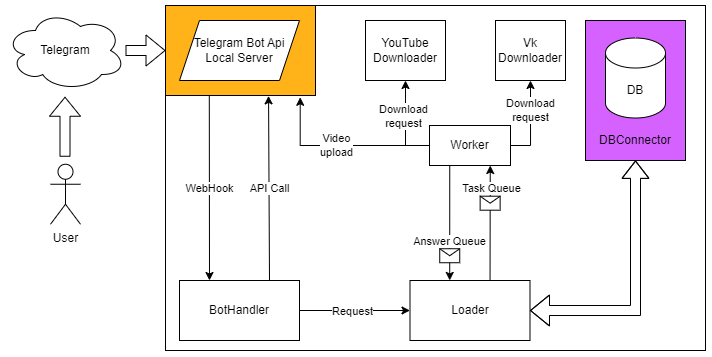
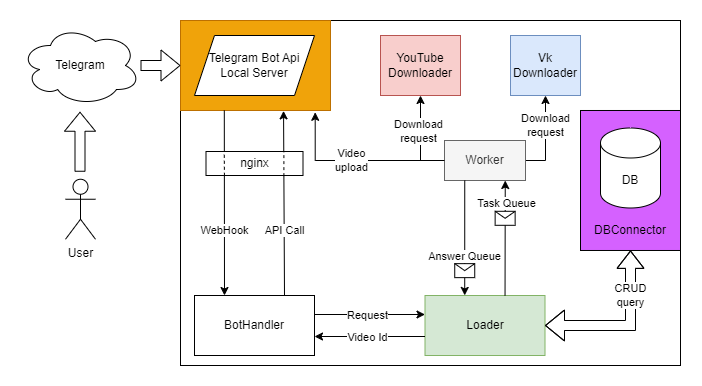
Update readme.md

diff --git a/readme.md b/readme.md
@@ -1,4 +1,25 @@
-## Запуск
+## Содержание
+
+- [Содержание](#содержание)
+- [Описание проекта](#описание-проекта)
+- [Запуск приложения](#запуск-приложения)
+    - [Запуск на локальной машине](#Запуск-на-локальной-машине)
+    - [Запуск на сервере](#Запуск-на-сервере)
+    - [Генерация автодокументации](#генерация-автодокументации)
+- [Архитектура](#архитектура)
+    - [Архитектура базы данных](#архитектура-базы-данных)
+    - [Архитектура приложения](#архитектура-приложения)
+    - [Паттерны проектирования](#паттерны-проектирования)
+
+# Описание проекта
+
+Наш проект представляет собой Telegram бота для скачивания видеозаписей с популярных видео хостингов. В его возможно
+входит
+
+- Загрузка видеозаписей по ссылке с платформы YouTube и VK Video
+- Возможность подписываться на обновления плейлистов и автоматически получать добавленные видео
+
+## Запуск приложения
 
 Для запуска необходимо заполнить файл [.env](.env.sample).
 
@@ -9,7 +30,6 @@
 > [!TIP]
 > Рекомендуется заполнить все переменные окружения вида `*HOST` названием соответствующего сервиса
 > в [docker-compose.yml](docker-compose.yml)
-
 
 ### Запуск на локальной машине
 
@@ -24,27 +44,122 @@
   ```
   `PORT` должен совпадать с `TELEGRAM_BOT_HANDLER_PORT`, не закрывайте окно командной строки до конца работы приложения
 * Скопируйте полученный домен в `TELEGRAM_BOT_HANDLER_PROXY`
-* Запустите [Docker](https://docs.docker.com/desktop/?_gl=1*1dcggd0*_ga*NDE4MTkyNTMwLjE2OTc0NDc1MTM.*_ga_XJWPQMJYHQ*MTcwOTA3NDkwNy4xNy4xLjE3MDkwNzQ5MDkuNTguMC4w) и выполнить команду
+*
 
-  ```console
-  docker-compose up
-  ```
+Запустите [Docker](https://docs.docker.com/desktop/?_gl=1*1dcggd0*_ga*NDE4MTkyNTMwLjE2OTc0NDc1MTM.*_ga_XJWPQMJYHQ*MTcwOTA3NDkwNy4xNy4xLjE3MDkwNzQ5MDkuNTguMC4w)
+и выполнить команду
+
+```console
+docker-compose up
+```
 
 ### Запуск на сервере
 
 > [!IMPORTANT]
 > Сервер должен принимать **https** запросы
-* Укажите в `TELEGRAM_BOT_HANDLER_PROXY` адрес сервера
-* Запустите [Docker](https://docs.docker.com/desktop/?_gl=1*1dcggd0*_ga*NDE4MTkyNTMwLjE2OTc0NDc1MTM.*_ga_XJWPQMJYHQ*MTcwOTA3NDkwNy4xNy4xLjE3MDkwNzQ5MDkuNTguMC4w) и выполните команду
 
-  ```console
-  docker-compose up
-  ```
-  
-## Архитектура приложения:
+* Укажите в `TELEGRAM_BOT_HANDLER_PROXY` адрес сервера
+* Настройте переадресацию запросов с главной страницы на `localhost:TELEGRAM_BOT_HANDLER_PORT`
+*
+
+Запустите [Docker](https://docs.docker.com/desktop/?_gl=1*1dcggd0*_ga*NDE4MTkyNTMwLjE2OTc0NDc1MTM.*_ga_XJWPQMJYHQ*MTcwOTA3NDkwNy4xNy4xLjE3MDkwNzQ5MDkuNTguMC4w)
+и выполните команду
+
+```console
+docker-compose up
+```
+
+### Генерация автодокументации
+
+Для автодокументирования кода используется библиотека [Sphinx](https://www.sphinx-doc.org/en/master/index.html).
+
+> [!Warning]
+> Инструкция написана для устройств семейства [ubuntu](https://ubuntu.com/)
+
+Чтобы сгенерировать документацию, перейдите в корневую директорию проекта и выполните следующие команды:
+
+```console
+sudo apt install -y python3-dev
+```
+
+```console
+python -m venv venv
+```
+
+```console
+source venv/bin/activate
+```
+
+```console
+sudo apt install -y build-essential libssl-dev libffi-dev
+```
+
+```console
+pip install -r docs/requirements.txt
+```
+
+После выполнения этих команд, осталось запустить файл [documentation.sh](documentation.sh)
+
+```console
+sh documentation.sh
+```
+
+Теперь в папке **docs/build/html/** содержатся html-файлы документации
+
+## Архитектура
+
+Основной целью разработки архитектуры приложения было выстраивание
+цепочки обработки запросов пользователя таким образом, чтобы гарантировать
+способность приложения в любой момент времени ответить на сообщение клиента(responsibility).
+
+### Архитектура базы данных
+
+![Архитектура бд](assets/bd.png)
+
+На приведенной картинке можно увидеть диаграмму связей между таблицами нашей базы данных.
+
+Ключевыми являются таблицы **User**, **Video**, **Playlist**, *id* которых репрезентирует идентификатор
+соответствующего типа данных в Telegram либо на видео хостинге.
+
+Таблицы **User** и **Playlist**, а также **Video** и **Playlist** состоят в связи "многие-ко-многим"
+через промежуточные таблицы.
+
+База данных находится
+в [третьей нормальной форме](https://learn.microsoft.com/ru-ru/office/troubleshoot/access/database-normalization-description#third-normal-form).
+
+### Архитектура приложения
 
 ![Архитектура](assets/img.png)
 
-## Архитектура базы данных
+Обработка запроса происходит следующим образом:
 
-Будет добавлена позже
+1. Пользователь отправляет команду Telegram боту, запрос
+   попадает [Telegram Bot Api Local Server](https://core.telegram.org/bots/api#using-a-local-bot-api-server) (далее
+   просто локальный сервер)
+2. Локальный сервер отправляет *https* запрос на адрес `TELEGRAM_BOT_HANDLER_PROXY`
+3. По этому адресу расположен nginx, которые перенаправляет запрос на нужный порт (`TELEGRAM_BOT_HANDLER_PORT`)
+4. **BotHandler** обрабатывает запрос и обращается к **Loader**(если требуется загрузить видео или плейлист)
+5. **Loader** проверяет наличие запрашиваемого видео в базе данных и создаёт задание на его загрузку или на обновление
+   данных о плейлисте.
+   Он добавляет задачу в очередь сообщений и возвращает ответ **BotHandler**-у
+6. **Worker** принимает задачу и выбирает загрузчик в зависимости от переданной ссылки
+7. Загрузчик скачивает видео в общий volume или получает информацию о плейлисте и возвращает путь к файлу либо список из
+   всех видеозаписей
+8. **Worker** загружает полученное видео на локальный сервер и возвращает *file_id* - уникальный идентификатор для
+   Telegram,
+   либо возвращает список всех видеозаписей, полученный от загрузчика. Результат отправляется через очередь ответных
+   сообщений
+9. **Loader** обновляет базу данных в соответствии с полученным сообщением и передаёт *file_id* **BotHandler**-у
+10. Используя *file_id* **BotHandler** пересылает уже загруженное видео пользователю
+
+Также в фоновом режиме **Loader** каждые 10 минут обновляет данные в плейлистах.
+
+Таким образом модуль, взаимодействующий с пользователем(BotHandler) отделяется от бизнес-логики по загрузке видео.
+
+### Паттерны проектирования
+
+Для достижения лучшей отзывчивости приложения используются два архитектурных паттерна:
+* [Микросервисная архитектура.](https://cloud.yandex.ru/ru/blog/posts/2022/03/microservice-architecture) Позволяет разделить
+приложение на слабо зависимые модули, общение между которыми происходит через API
+* [Брокер сообщений](https://www.enterpriseintegrationpatterns.com/patterns/messaging/MessageBroker.html) Чтобы отделить логику
+работы с пользователем от бизнес-логики возможно использовать асинхронный обмен сообщениями, гарантирующий отказоустойчивость
